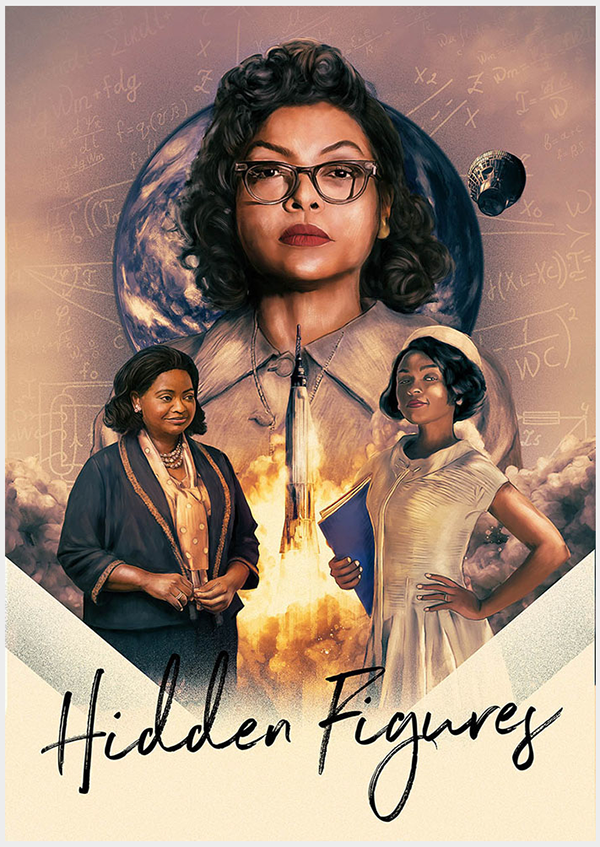
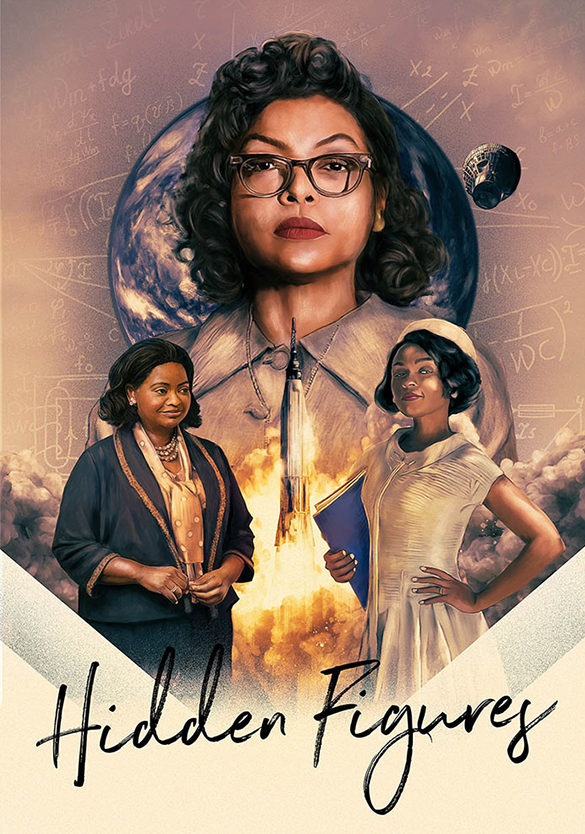
[UPDATE] Index (Ficha Técnica)

Changed region(s): [[0.0, 0.0, 1.0, 1.0]]

diff --git a/src/pages/ficha-tecnica/Index.jsx b/src/pages/ficha-tecnica/Index.jsx
@@ -1,11 +1,75 @@
 /* Components */
 import { PagesLayout } from '../../components/layouts/PagesLayout.jsx';
+/* Utils */
+import { images } from '../../utils/helpers.jsx';
 
 // PÁGINA
 /* Ficha Técnica de la Película */
 const Index = () => (
     <PagesLayout title='Ficha Técnica'>
-        <div>Contenido</div>
+        <div className="mt-2 sm:mt-8 w-72 grid grid-cols-3 bg-gray-100 rounded-lg shadow-lg card overflow-auto sm:overflow-hidden sm:w-[36rem] lg:w-[48rem]">
+            <img
+                alt="Poster de Talentos Ocultos"
+                className="w-72 col-span-3 sm:w-66 sm:col-span-1"
+                src={images.poster2}
+            />
+
+            <div className="mx-6 my-8 flex flex-col col-span-3 sm:col-span-2 sm:overflow-auto">
+                <div className='pr-2 max-h-32 grid grid-cols-2 gap-x-4 gap-y-2 text-xs sm:max-h-60 sm:text-sm'>
+                    <div className='col-span-2 sm:col-span-1'>
+                        <span className="font-bold">Título Original:</span> Hidden Figures
+                    </div>
+                    <div className='col-span-2 sm:col-span-1'>
+                        <span className="font-bold">Duración:</span> 127 mins.
+                    </div>
+                    <div className='col-span-2 sm:col-span-1'>
+                        <span className="font-bold">País:</span> Estados Unidos
+                    </div>
+                    <div className='col-span-2 sm:col-span-1'>
+                        <span className="font-bold">Dirección:</span> Theodore Melfi
+                    </div>
+                    <div className='col-span-2'>
+                        <span className="font-bold">Guión:</span> Allison Schroeder, basado en el libro de Margot Lee Shetterly
+                    </div>
+                    <div className='col-span-2'>
+                        <span className="font-bold">Música:</span> Benjamin Wallfisch, Pharrell Williams y Hans Zimmer
+                    </div>
+                    <div className='col-span-2'>
+                        <div className="font-bold">Sinopsis:</div>
+                        <div className='mt-1 text-justify'>En la década de 1960, durante la carrera espacial entre Estados Unidos y la Unión Soviética, tres mujeres afroamericanas brillantes trabajan como matemáticas en la División Segregada de Cálculo del Centro de Investigación Langley de la NASA. Katherine Johnson, Dorothy Vaughan y Mary Jackson superan el sexismo y el racismo mientras calculan las trayectorias de vuelo, analizan los datos y programan las computadoras que hacen posible el éxito de las misiones espaciales, incluyendo el lanzamiento del astronauta John Glenn a la órbita terrestre.</div>
+                    </div>
+                    <div className='col-span-2'>
+                        <div className="font-bold">Reparto:</div>
+                        <div className='mt-1'>
+                            Taraji P. Henson como Katherine Johnson<br />
+                            Octavia Spencer como Dorothy Vaughan<br />
+                            Janelle Monáe como Mary Jackson<br />
+                            Kevin Costner como Al Harrison<br />
+                            Kirsten Dunst como Vivian Mitchell<br />
+                            Jim Parsons como Paul Stafford<br />
+                            Glen Powell como John Glenn<br />
+                            Mahershala Ali como Jim Johnson<br />
+                        </div>
+                    </div>
+                    
+                    <div className='pb-8 col-span-2 sm:pb-0'>
+                        <div className="font-bold">Críticas:</div>
+                        <div className='mt-3 text-center'>
+                            <span className='italic'>Una película inspiradora y conmovedora que celebra el poder de la inteligencia y la perseverancia.</span><br />
+                            <span className='text-[0.5rem] font-bold sm:text-xs'>Variety</span>
+                        </div>
+                        <div className='mt-3 text-center'>
+                            <span className='italic'>Una historia importante que necesita ser contada.</span><br />
+                            <span className='text-[0.5rem] font-bold sm:text-xs'>The Hollywood Reporter</span>
+                        </div>
+                        <div className='mt-3 text-center'>
+                            <span className='italic'>Una película entretenida y bien hecha que te dejará sin aliento.</span><br />
+                            <span className='text-[0.5rem] font-bold sm:text-xs'>Rolling Stone</span>
+                        </div>
+                    </div>
+                </div>
+            </div>
+        </div>
     </PagesLayout>
 );
 
